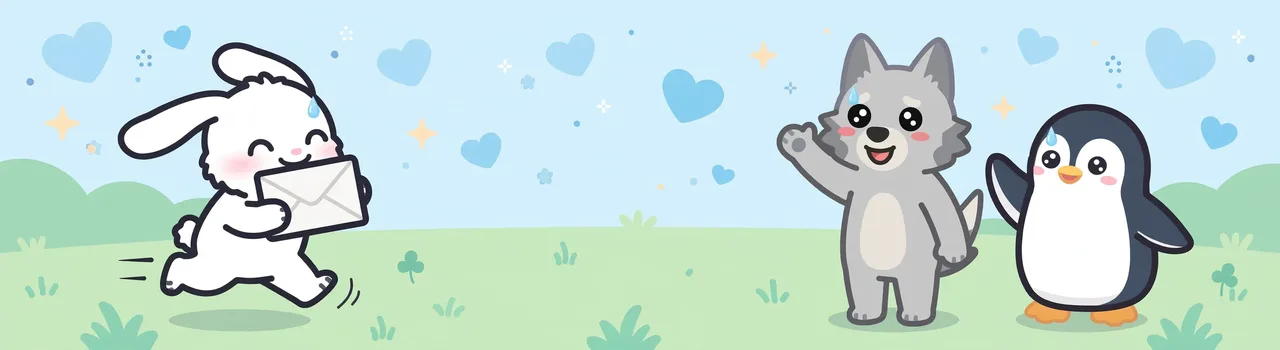
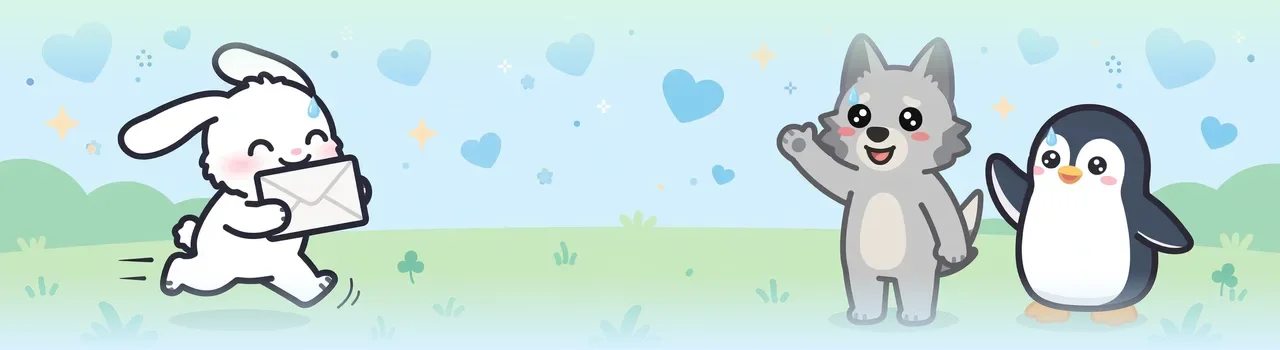
LP v4：区切りイラストの端を溶かして継ぎ目なしに (API sync)

diff --git a/client/lp.html b/client/lp.html
@@ -38,7 +38,7 @@
   .cta-note { margin-top: 12px; font-size: 13px; color: #5d7d94; }
   /* 帯セクション */
   .band { padding: 42px 0 48px; margin-top: 40px; }
-  .divider-full { display: block; width: 100%; height: auto; margin-top: 40px; }
+  .divider-full { display: block; width: 100%; height: auto; margin-top: 0; }
   .band-after-divider { margin-top: 0; }
   .band-white { background: #ffffff; }
   .band-mint { background: linear-gradient(180deg, #eafff6, #d8f7e8); }

diff --git a/docs/handover.md b/docs/handover.md
@@ -1436,3 +1436,4 @@ Cloudflare Pages デプロイは自動完結できず、おぎの操作待ち。
 - Supabase 方針メモ：無料枠は2プロジェクトで満杯（本家＋Lite）。今後の Lite 系は「1プロジェクトに接頭辞で相乗り」が無料運用の本命、Pro は $25/月＋追加1件ごとに $10/月。
 - LP v2（同日）：おぎ要望「画像が豊富なLPに」で作り直し。ヒーローイラスト（生成・lp-hero.webp）とギフトイラスト（lp-gift.webp）を新規生成し、実際のゲーム画面スクショ4点（ロビー／待機室／話し合い／グループチャット、デモモードで撮影し client/img/lp-shot-*.webp に最適化）を掲載。結果画面はデモ表示文言が写るため不採用。生成マスターは ~/workspace/kotoba-jinrou-lite-data/lp/ に保管。
 - LP v3（同日）：ヒーローの吹き出しを人数分（5つ）にし、各吹き出しにカラフルな記号・文字（？／！／E／あ／♪）を入れた版に差し替え。セクション間に区切りイラスト2点を追加（虫とり網で「あ」を追うペンギン／手紙を届けるうさぎ、生成マスターは data/lp/ に保管）。
+- LP v4（同日）：区切りイラストの上下端を隣接セクション色へグラデーションで溶かし込み、セクション間の継ぎ目をなくした（おぎ提示のバンビーノLPの「違和感なく繋がる」区切りが参考）。
